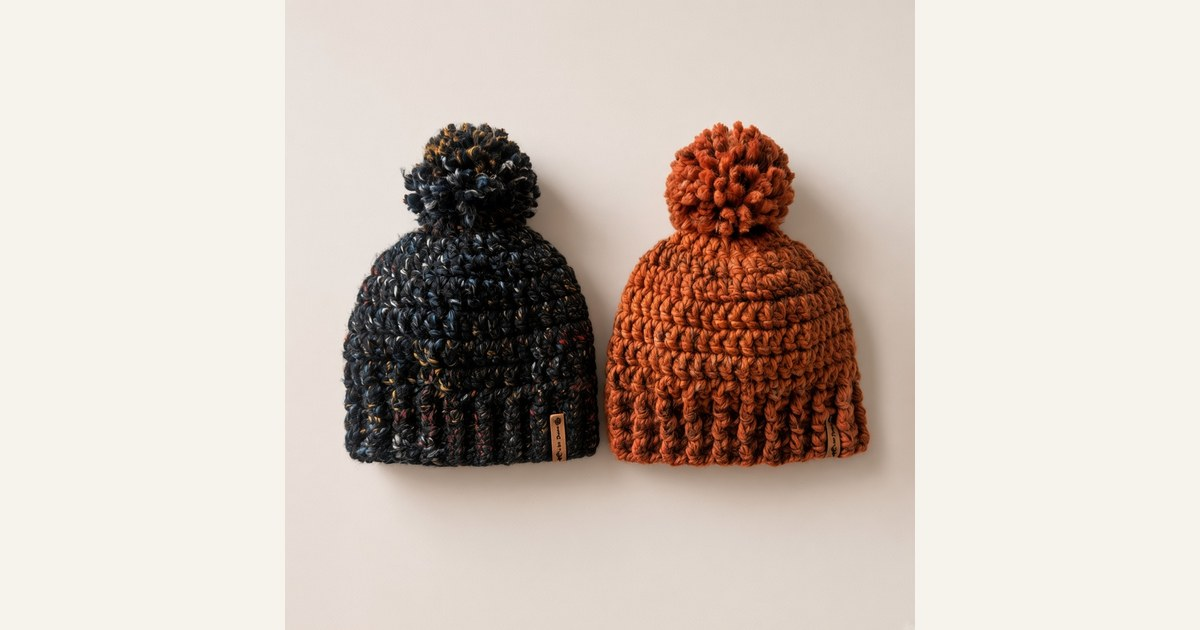
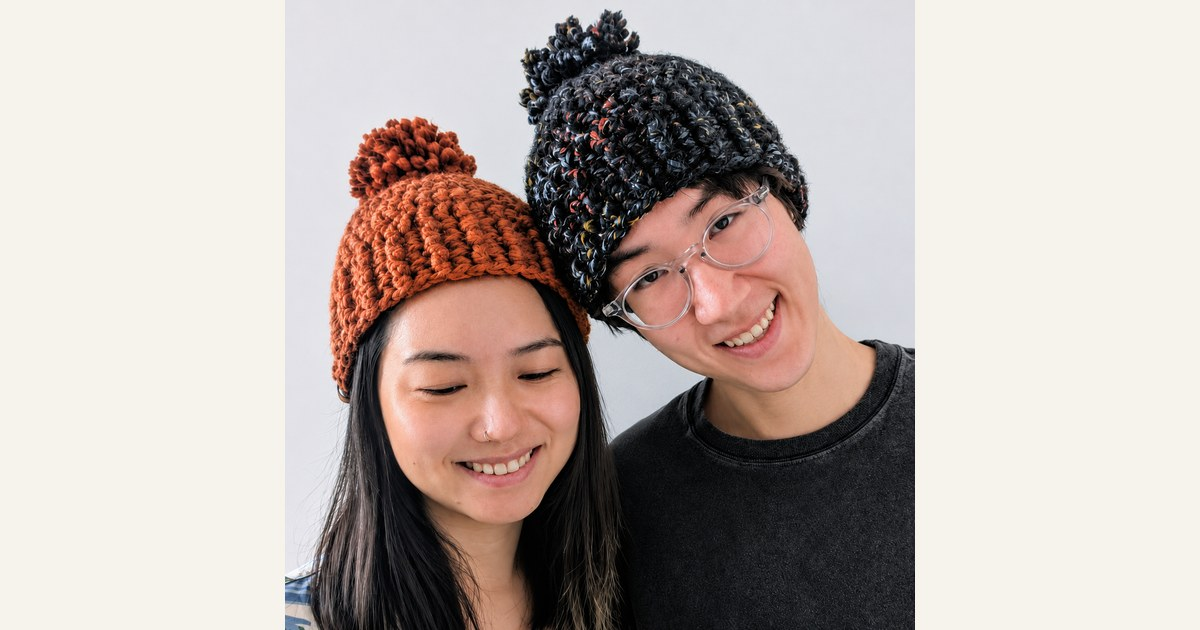
update website content and photos

diff --git a/src/data/products.ts b/src/data/products.ts
@@ -186,19 +186,19 @@ export const products: Product[] = [
   },
   {
     id: "ribbed-hat",
-    name: "Ribbed hat (unisex)",
+    name: "Ribbed beanie (unisex)",
     price: 30,
     category: "Hats",
     hideColorPicker: true,
     imageSrc: "/products/ribbed-hat/ribbed hat 1-v1.png",
-    imageAlt: "Man wearing a cream tweed ribbed hat in profile beside a pond at sunset",
+    imageAlt: "Man wearing a cream tweed ribbed beanie in profile beside a pond at sunset",
     imageShownColor: "Ivory Tweed",
     galleryImages: [
-      { src: "/products/ribbed-hat/ribbed hat 5-v3.png", alt: "Cream tweed ribbed hat laid flat with its folded cuff", shownColor: "Ivory Tweed" },
-      { src: "/products/ribbed-hat/ribbed hat 3-v1.png", alt: "Front view of a man wearing a cream tweed ribbed hat with a pond and trees behind him", shownColor: "Ivory Tweed" },
-      { src: "/products/ribbed-hat/ribbed hat 2-v1.png", alt: "Back view of a cream tweed ribbed hat showing the gathered crown beside a pond", shownColor: "Ivory Tweed" },
+      { src: "/products/ribbed-hat/ribbed hat 5-v3.png", alt: "Cream tweed ribbed beanie laid flat with its folded cuff", shownColor: "Ivory Tweed" },
+      { src: "/products/ribbed-hat/ribbed hat 3-v1.png", alt: "Front view of a man wearing a cream tweed ribbed beanie with a pond and trees behind him", shownColor: "Ivory Tweed" },
+      { src: "/products/ribbed-hat/ribbed hat 2-v1.png", alt: "Back view of a cream tweed ribbed beanie showing the gathered crown beside a pond", shownColor: "Ivory Tweed" },
       { src: "/products/ribbed-hat/ribbed hat 7-v3.png", alt: "Close-up of the folded cream tweed hat cuff and ribbed stitches", shownColor: "Ivory Tweed" },
-      { src: "/products/ribbed-hat/ribbed hat 9-v3.png", alt: "Handmade by Diana leather label on the cream tweed ribbed hat cuff", shownColor: "Ivory Tweed" },
+      { src: "/products/ribbed-hat/ribbed hat 9-v3.png", alt: "Handmade by Diana leather label on the cream tweed ribbed beanie cuff", shownColor: "Ivory Tweed" },
       { src: "/products/ribbed-hat/ribbed hat 10-v1.png", alt: "Close-up of cream ribbed crochet stitches with black and tan tweed flecks", shownColor: "Ivory Tweed" },
     ],
     sizes: [
@@ -249,7 +249,7 @@ export const products: Product[] = [
   {
     "id": "blanket",
     "name": "Chunky chenille blanket",
-    "price": 223,
+    "price": 200,
     "category": "Home",
     "imageSrc": "/products/Blanket/blanket 5.jpg",
     "imageAlt": "White blanket spread out with its ribbed border held in one hand",
@@ -297,57 +297,57 @@ export const products: Product[] = [
       {
         "id": "lovey",
         "label": "Lovey · 12 × 12 in",
-        "price": 23
+        "price": 21
       },
       {
         "id": "security",
         "label": "Security · 18 × 24 in",
-        "price": 45
+        "price": 40
       },
       {
         "id": "baby",
         "label": "Baby · 30 × 36 in",
-        "price": 89
+        "price": 80
       },
       {
         "id": "receiving",
         "label": "Receiving · 40 × 40 in",
-        "price": 111
+        "price": 100
       },
       {
         "id": "crib",
         "label": "Lap / crib · 36 × 52 in",
-        "price": 134
+        "price": 120
       },
       {
         "id": "throw",
         "label": "Throw · 50 × 60 in",
-        "price": 200
+        "price": 179
       },
       {
         "id": "large-throw",
         "label": "Large throw · 48 × 71 in",
-        "price": 223
+        "price": 200
       },
       {
         "id": "twin",
         "label": "Twin · 66 × 90 in",
-        "price": 400
+        "price": 359
       },
       {
         "id": "full",
         "label": "Full · 80 × 90 in",
-        "price": 489
+        "price": 439
       },
       {
         "id": "queen",
         "label": "Queen · 90 × 100 in",
-        "price": 600
+        "price": 538
       },
       {
         "id": "king",
         "label": "King · 108 × 100 in",
-        "price": 711
+        "price": 638
       }
     ],
     "defaultSizeId": "large-throw",
@@ -544,7 +544,7 @@ export const products: Product[] = [
   },
   {
     id: "hats",
-    name: "Chunky hat (unisex)",
+    name: "Chunky beanie (unisex)",
     price: 30,
     category: "Hats",
     imageSrc: "/products/chunky-hat/chunky-hat-cover-v2-cooler.png",

diff --git a/src/components/stocking-personalization-picker.tsx b/src/components/stocking-personalization-picker.tsx
@@ -27,13 +27,13 @@ export function StockingPersonalizationPicker({ value, onChange, className, topO
   return (
     <fieldset className={cn(pickerFieldsetClass, className)}>
       <legend className={pickerLegendClass}>
-        Personalization (optional):{" "}
+        Personalization{" "}
         <span className="font-medium text-foreground">{selected.label}</span>
       </legend>
       <div
         className={pickerChipGroupClass}
         role="radiogroup"
-        aria-label="Personalization (optional)"
+        aria-label="Personalization"
         onKeyDown={(e) => {
           if (!["ArrowLeft", "ArrowRight", "ArrowUp", "ArrowDown", "Home", "End"].includes(e.key)) return;
           const buttons = Array.from(e.currentTarget.querySelectorAll<HTMLButtonElement>('button[role="radio"]:not(:disabled)'));
